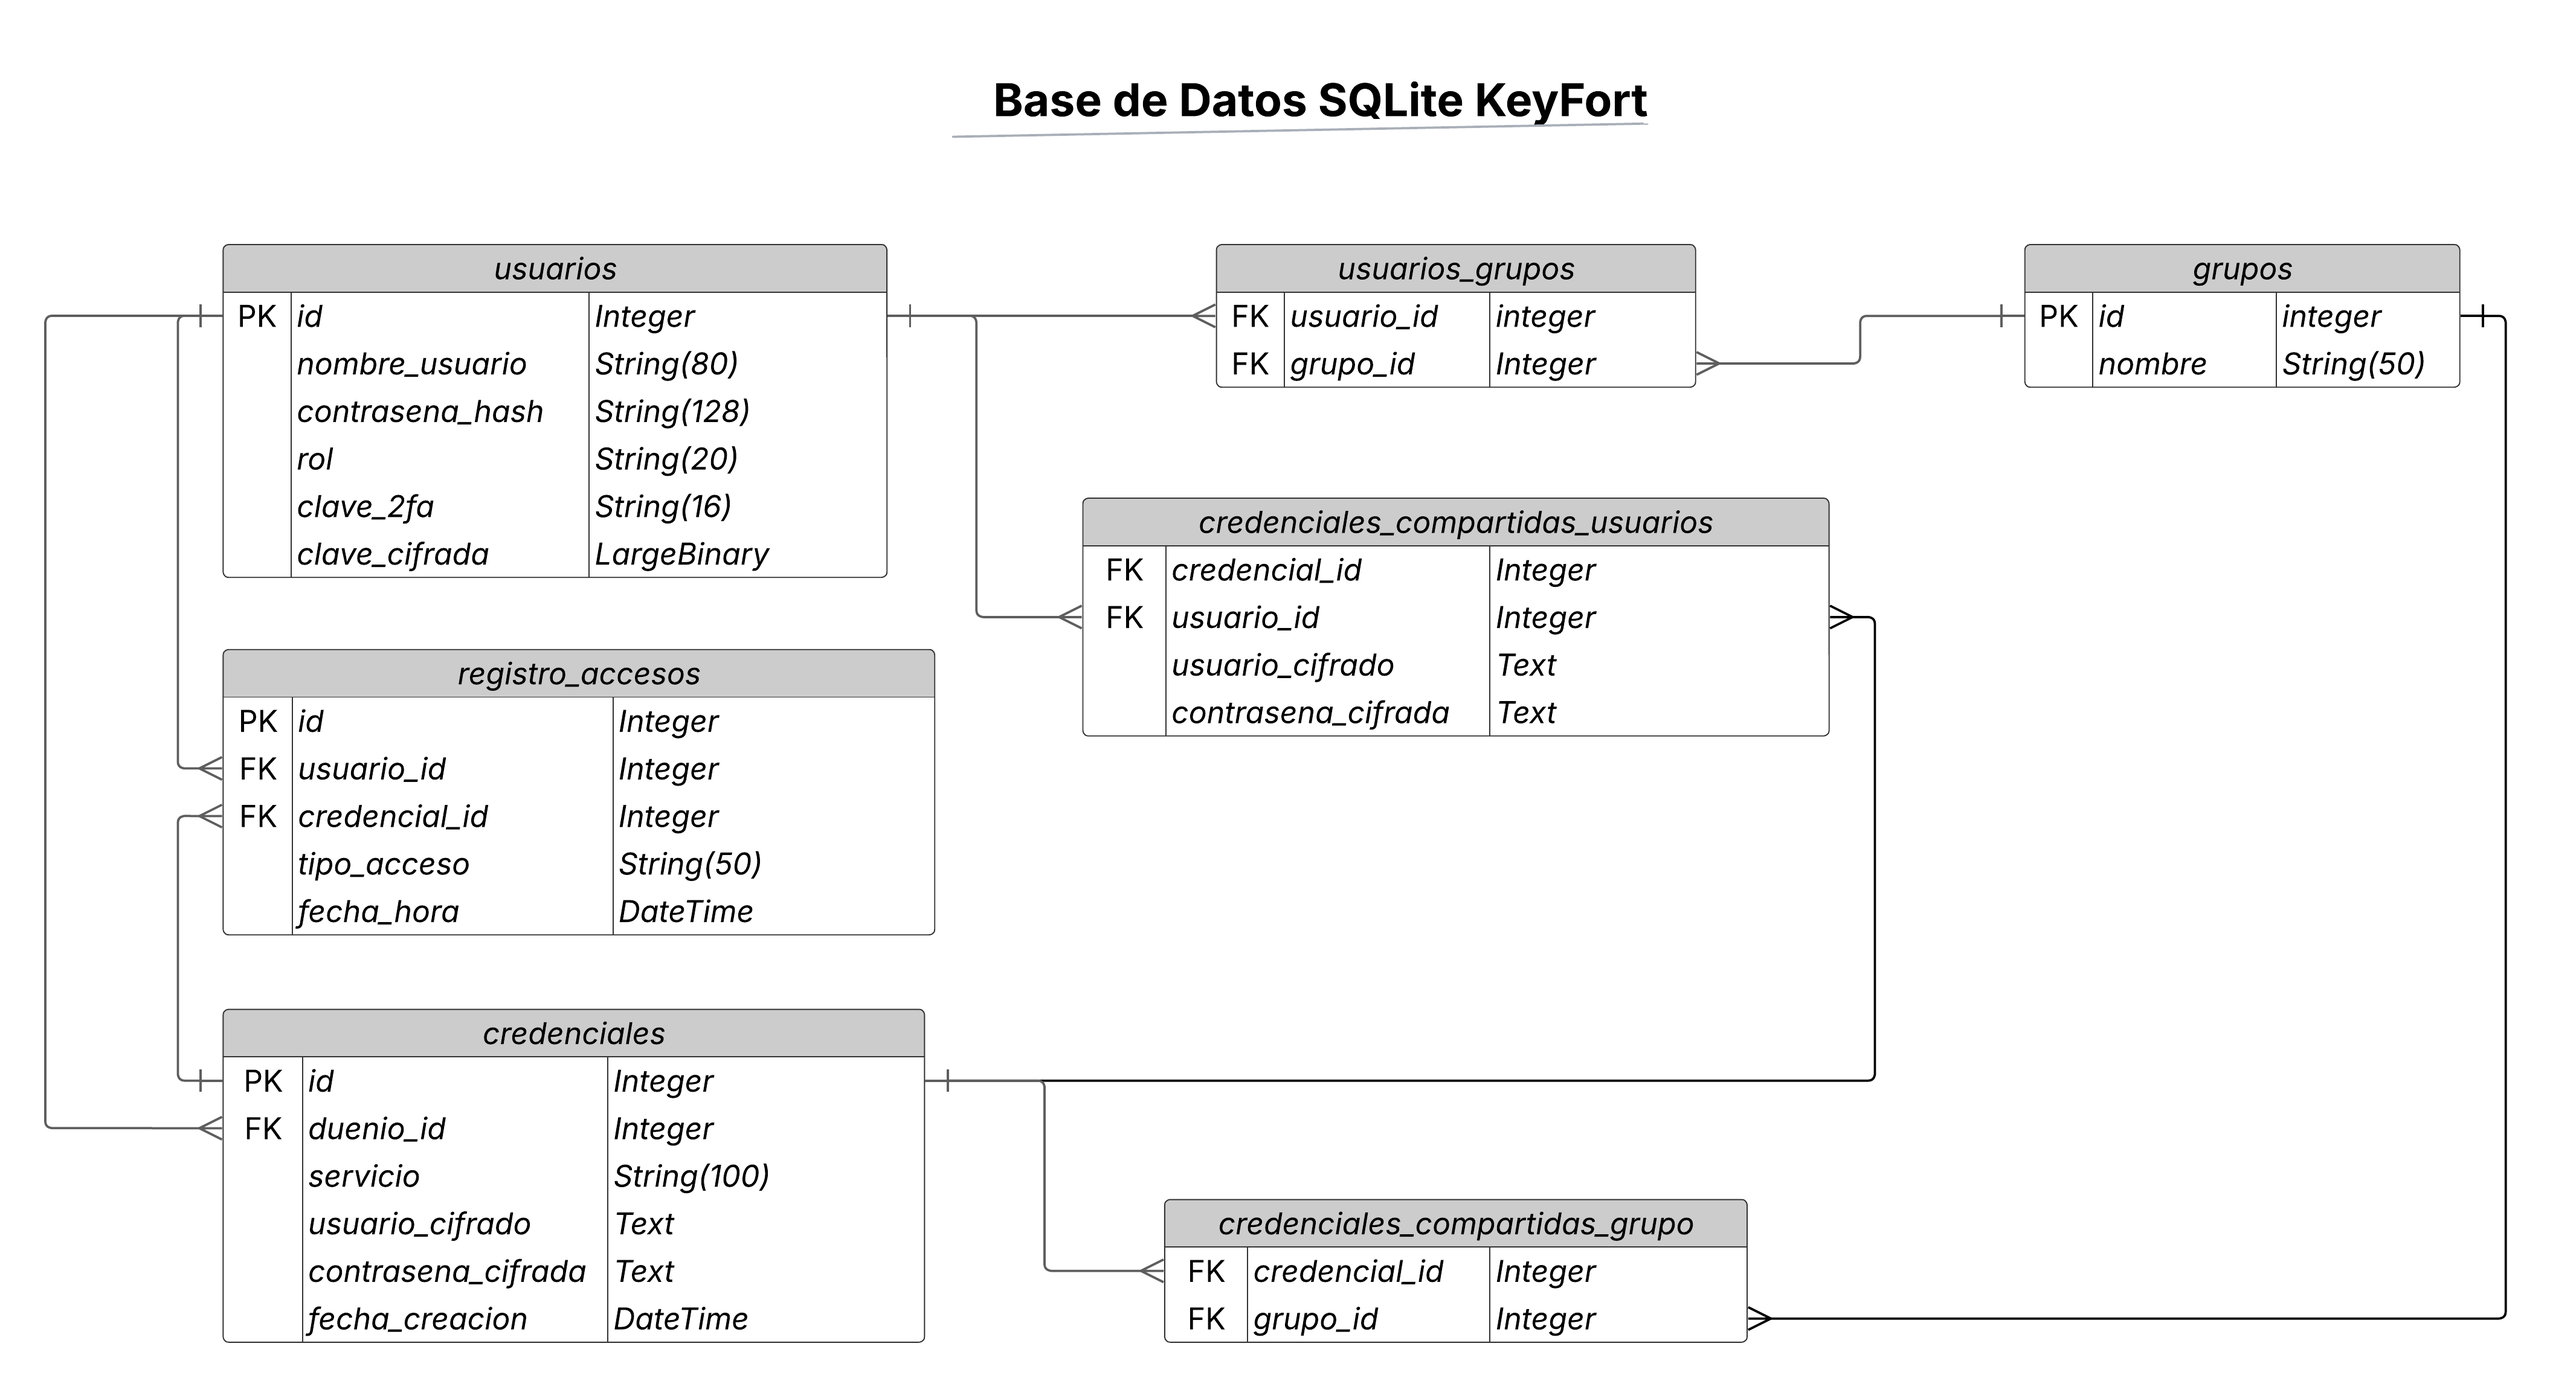
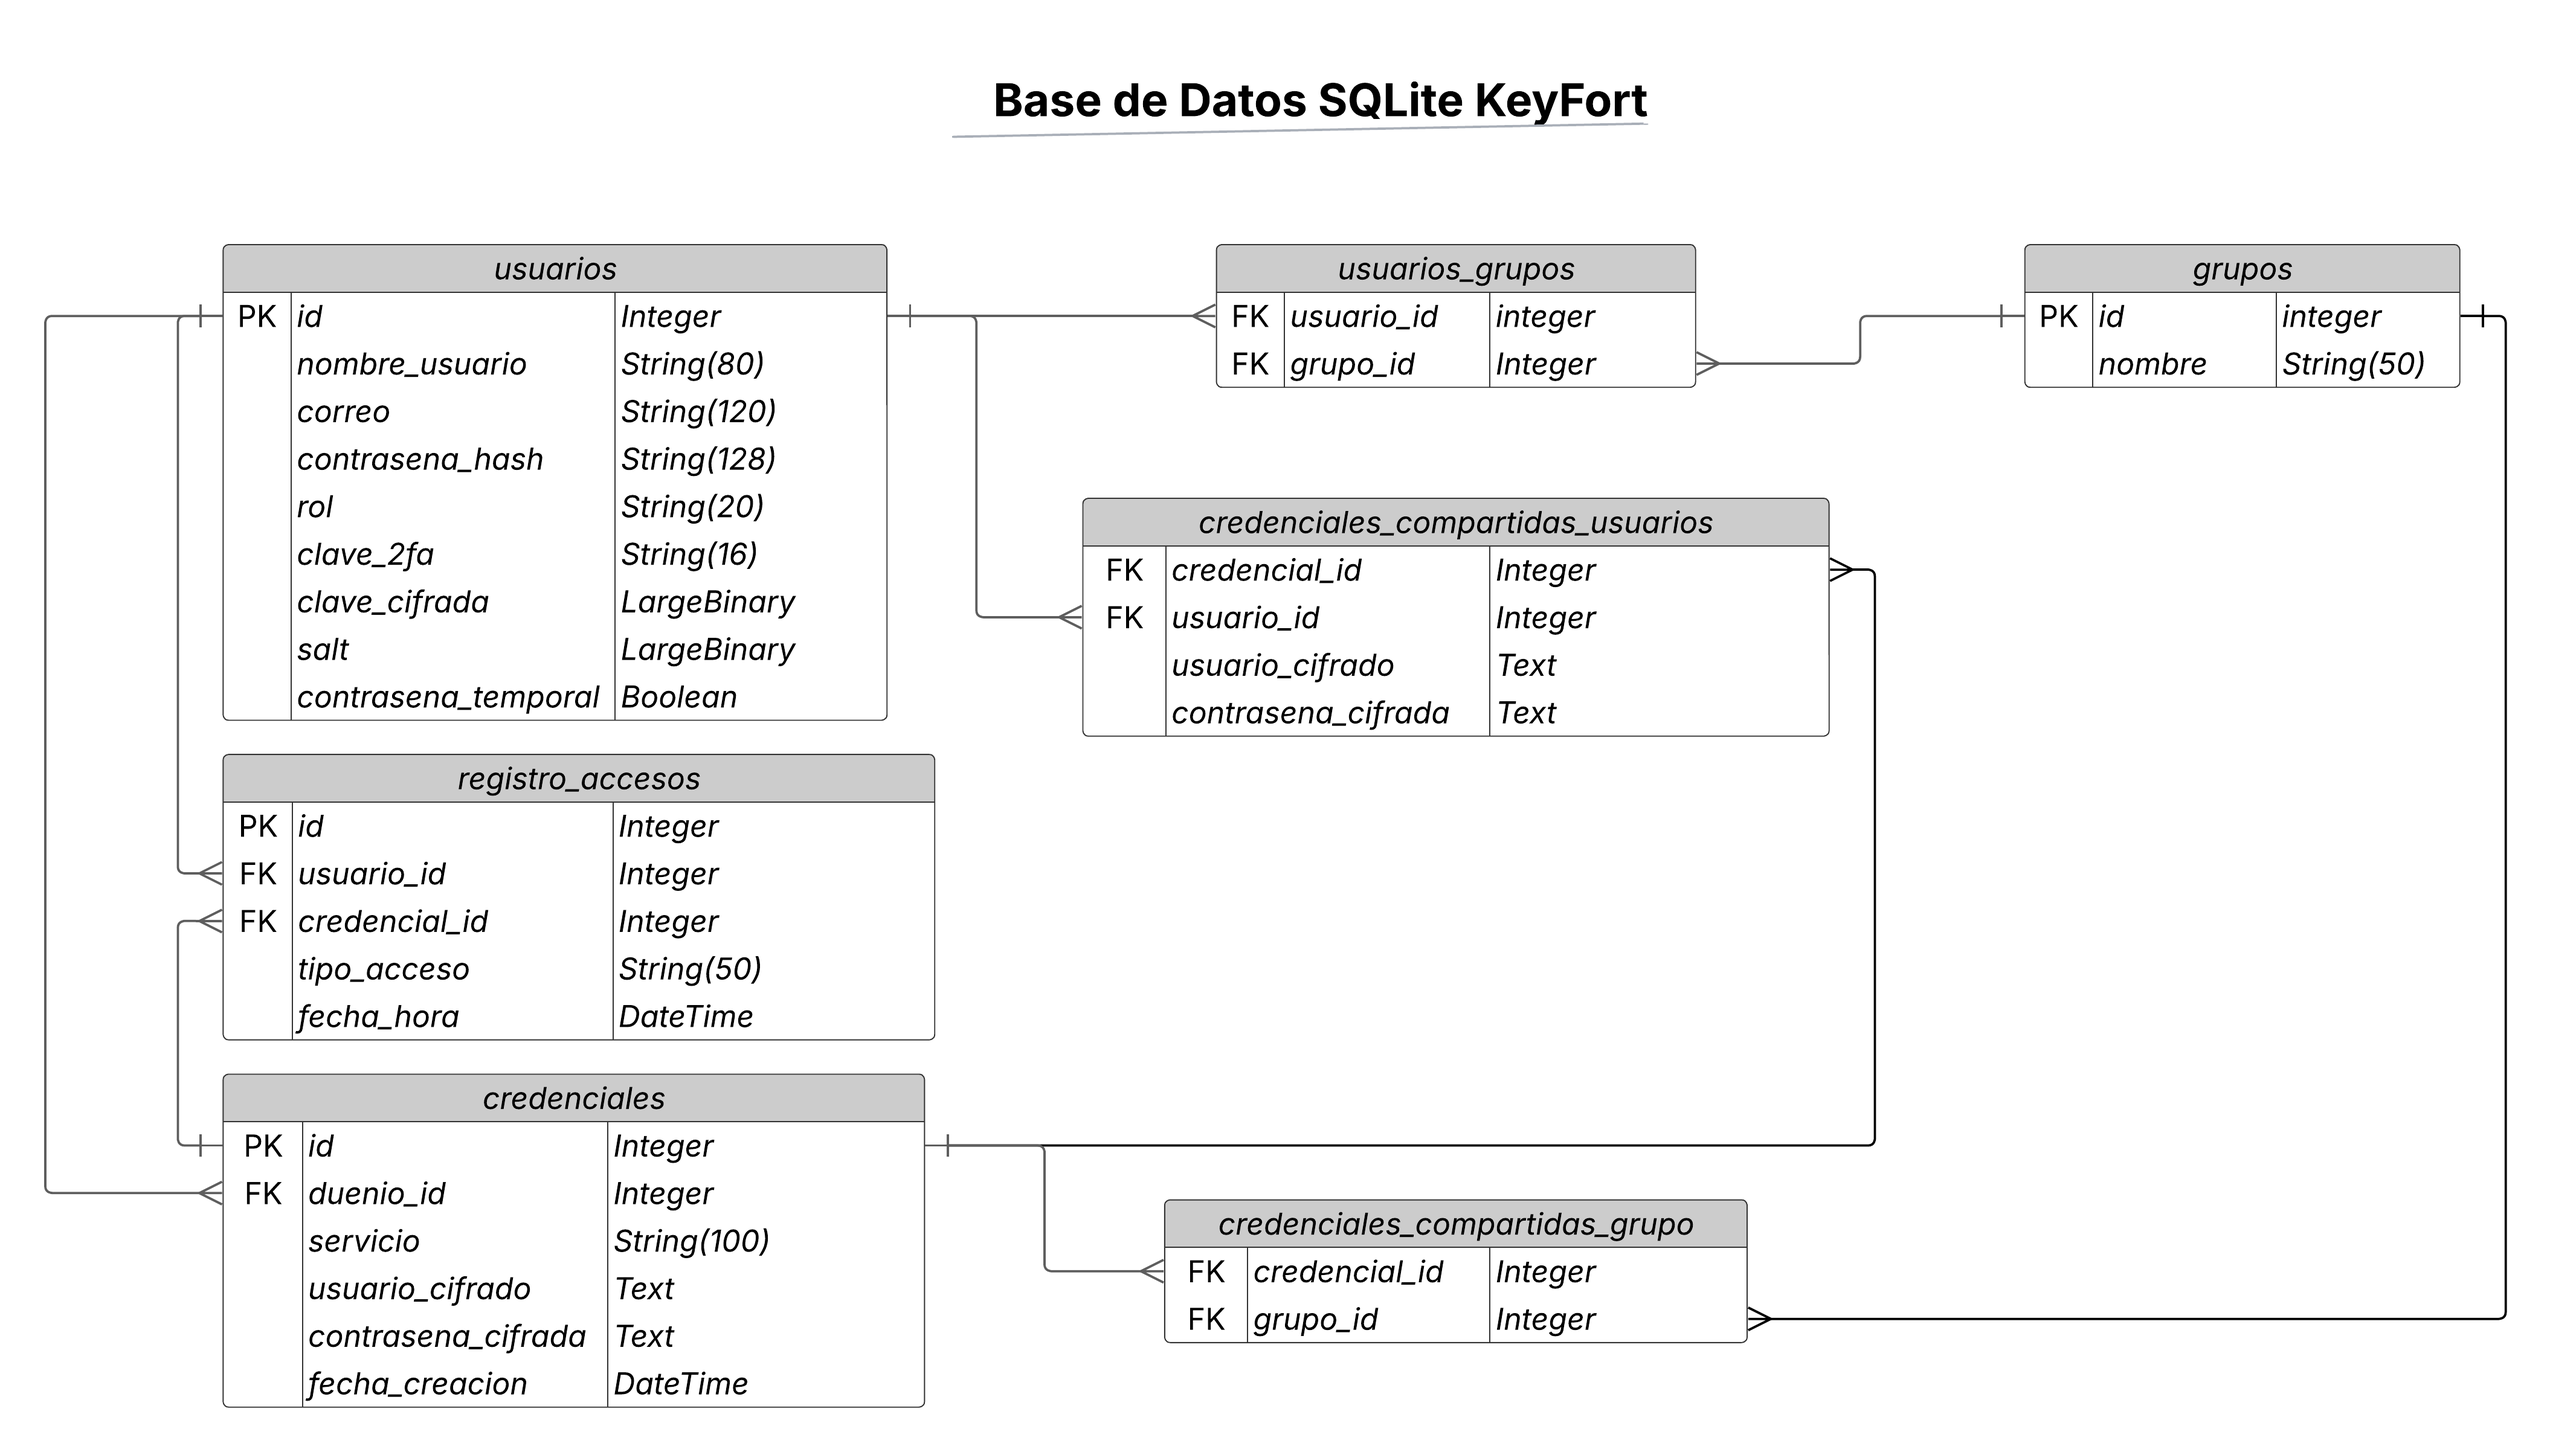
Creación de rutas: creación de usuarios, login, configuración de autenticación en dos factores y verificación de claves TOPT. Ademas se crearon módulos dentro de la carpeta 'utils/' los cuales resuelven todas las tareas necesarias para realizar correctamente las acciones de las rutas, ya sea crear l

diff --git a/backend/routes.py b/backend/routes.py
@@ -1,0 +1,127 @@
+from flask import request, jsonify
+from base.db import db
+from base.models import Usuario, Credencial, Grupo, RegistroAcceso, CredencialCompartidaUsuario
+from utils.contrasena import generar_contrasena, hashear_contrasena, checkear_contrasena
+from utils.cifrado_aes import generar_clave_usuario_cifrada
+from utils.twofa import generar_clave_2fa, generar_uri_2fa, verificar_codigo_2fa
+from utils.correos import enviar_correo_contrasena
+from utils.cambiar_contrasena import cambiar_contrasena
+from utils.auth_token import generar_token, verificar_token
+
+def registrar_rutas(app):
+    @app.route('/crear_usuario', methods=['POST'])
+    def crear_usuario():
+        data = request.get_json()
+
+        if not all(k in data for k in ('nombre_usuario', 'rol', 'correo')):
+            return jsonify({'error': 'Faltan campos requeridos'}), 400
+        
+        if Usuario.query.filter_by(correo=data['correo']).first():
+            return jsonify({'error': 'Este correo ya está registrado'}), 409
+
+        contrasena_temp = generar_contrasena()
+
+        clave_cifrada, salt = generar_clave_usuario_cifrada(contrasena_temp)  
+
+        nuevo = Usuario(
+            nombre_usuario=data['nombre_usuario'],
+            correo=data['correo'],  
+            contrasena_hash=hashear_contrasena(contrasena_temp),
+            rol=data['rol'],
+            clave_cifrada=clave_cifrada,
+            salt=salt,
+        )
+
+        db.session.add(nuevo)
+        db.session.commit()
+
+        enviar_correo_contrasena(data['correo'], data['nombre_usuario'], contrasena_temp)
+
+        return jsonify({
+            'mensaje': 'Usuario creado exitosamente',
+        }), 201
+
+    @app.route('/login', methods=['POST'])
+    def login():
+        data = request.get_json()
+
+        usuario = Usuario.query.filter_by(nombre_usuario=data.get('nombre_usuario')).first()
+        if not usuario:
+            return jsonify({'error': 'Usuario no encontrado'}), 404
+
+        if not checkear_contrasena(usuario.contrasena_hash, data.get('contrasena')):
+            return jsonify({'error': 'Contraseña incorrecta'}), 401
+
+        return jsonify({
+            'mensaje': 'Login exitoso',
+            'usuario': usuario.id,
+            'contrasena_temporal': usuario.contrasena_temporal
+        }), 200
+
+    @app.route('/primer_login', methods=['POST'])
+    def primer_login():
+        data = request.get_json()
+        usuario = Usuario.query.filter_by(id=data.get('usuario_id')).first()
+
+        if not usuario:
+            return jsonify({'error': 'Usuario no encontrado'}), 404
+
+        if data.get('mantener_contrasena'):
+            usuario.contrasena_temporal = False
+            db.session.commit()
+            return jsonify({'mensaje': 'Contraseña temporal mantenida'}), 200
+
+        nueva_contrasena = data.get('nueva_contrasena')
+        if not nueva_contrasena:
+            return jsonify({'error': 'Se requiere nueva contraseña'}), 400
+
+        cambiar_contrasena(usuario, nueva_contrasena, temporal=False)
+        db.session.commit()
+
+        return jsonify({'mensaje': 'Contraseña cambiada exitosamente'}), 200
+
+    @app.route('/configurar_2fa', methods=['POST'])
+    def configurar_2fa():
+        data = request.get_json()
+        usuario = Usuario.query.filter_by(id=data.get('usuario_id')).first()
+
+        if not usuario:
+            return jsonify({'error': 'Usuario no encontrado'}), 404
+
+        if usuario.clave_2fa:
+            return jsonify({'error': '2FA ya configurado para este usuario'}), 400
+
+        clave_2fa = generar_clave_2fa()
+        uri = generar_uri_2fa(clave_2fa, usuario.nombre_usuario)
+
+        usuario.clave_2fa = clave_2fa
+        db.session.commit()
+
+        return jsonify({
+            'mensaje': 'Codigo uri enviado',
+            'uri': uri
+        }), 200
+
+
+    @app.route('/verificar_2fa', methods=['POST'])
+    def verificar_2fa():
+        data = request.get_json()
+        usuario = Usuario.query.filter_by(id=data.get('usuario_id')).first()
+
+        if not usuario or not usuario.clave_2fa:
+            return jsonify({'error': 'Usuario o 2FA no configurado'}), 404
+
+        codigo_ingresado = data.get('codigo')
+
+        totp = verificar_codigo_2fa(usuario.clave_2fa)
+        if totp.verify(codigo_ingresado):
+            db.session.commit()
+
+            token = generar_token(usuario.id)
+
+            return jsonify({
+                'mensaje': '2FA verificado correctamente',
+                'token': token
+            }), 200
+        else:
+            return jsonify({'error': 'Código incorrecto'}), 401

diff --git a/backend/base/models.py b/backend/base/models.py
@@ -1,7 +1,5 @@
-from flask_sqlalchemy import SQLAlchemy
+from base.db import db
 from datetime import datetime
-
-db = SQLAlchemy()
 
 usuarios_grupos = db.Table('usuarios_grupos',
     db.Column('usuario_id', db.Integer, db.ForeignKey('usuarios.id'), primary_key=True),
@@ -18,14 +16,18 @@ class Usuario(db.Model):
 
     id = db.Column(db.Integer, primary_key=True)
     nombre_usuario = db.Column(db.String(80), unique=True, nullable=False)
+    correo = db.Column(db.String(120), unique=True, nullable=False)
     contrasena_hash = db.Column(db.String(128), nullable=False)
     rol = db.Column(db.String(20), nullable=False) 
-    clave_2fa = db.Column(db.String(16), nullable=True)
-    clave_cifrada = db.Column(db.LargeBinary, nullable=False)  
+    clave_2fa = db.Column(db.String(16), nullable=True, default=None)
+    clave_cifrada = db.Column(db.LargeBinary, nullable=False)
+    salt = db.Column(db.LargeBinary, nullable=False)
+    contrasena_temporal = db.Column(db.Boolean, default=True)  
 
     grupos = db.relationship('Grupo', secondary=usuarios_grupos, back_populates='usuarios')
     credenciales_propias = db.relationship('Credencial', backref='duenio', lazy=True)
     accesos = db.relationship('RegistroAcceso', backref='usuario', lazy=True)
+
 
 class Grupo(db.Model):
     __tablename__ = 'grupos'

diff --git a/backend/utils/auth_token.py b/backend/utils/auth_token.py
@@ -1,0 +1,38 @@
+import jwt
+from datetime import datetime, timedelta
+from flask import request, jsonify, g, current_app
+from functools import wraps
+
+def generar_token(usuario_id, duracion_horas=1):
+    expiracion = datetime.utcnow() + timedelta(hours=duracion_horas)
+    payload = {
+        'usuario_id': usuario_id,
+        'exp': expiracion
+    }
+    token = jwt.encode(payload, current_app.config['SECRET_KEY'], algorithm='HS256')
+    return token
+
+
+def verificar_token(func):
+    @wraps(func)
+    def wrapper(*args, **kwargs):
+        token = None
+        if 'Authorization' in request.headers:
+            partes = request.headers['Authorization'].split()
+            if len(partes) == 2 and partes[0] == 'Bearer':
+                token = partes[1]
+
+        if not token:
+            return jsonify({'error': 'Token faltante'}), 401
+
+        try:
+            payload = jwt.decode(token, current_app.config['SECRET_KEY'], algorithms=['HS256'])
+            g.user = payload 
+        except jwt.ExpiredSignatureError:
+            return jsonify({'error': 'Token expirado'}), 401
+        except jwt.InvalidTokenError:
+            return jsonify({'error': 'Token inválido'}), 401
+
+        return func(*args, **kwargs)
+
+    return wrapper

diff --git a/backend/utils/cifrado_aes.py b/backend/utils/cifrado_aes.py
@@ -1,0 +1,25 @@
+from cryptography.hazmat.primitives.kdf.pbkdf2 import PBKDF2HMAC
+from cryptography.hazmat.primitives import hashes
+from cryptography.hazmat.backends import default_backend
+from cryptography.fernet import Fernet
+import base64
+import os
+
+def derivar_clave_desde_contrasena(contrasena: str, salt: bytes, iteraciones=100_000) -> bytes:
+    kdf = PBKDF2HMAC(
+        algorithm=hashes.SHA256(),
+        length=32,
+        salt=salt,
+        iterations=iteraciones,
+        backend=default_backend()
+    )
+    return base64.urlsafe_b64encode(kdf.derive(contrasena.encode()))
+
+def generar_clave_usuario_cifrada(contrasena: str):
+    clave_aes = Fernet.generate_key()
+    salt = os.urandom(16)
+    clave_derivada = derivar_clave_desde_contrasena(contrasena, salt)
+    fernet = Fernet(clave_derivada)
+    clave_cifrada = fernet.encrypt(clave_aes)
+    return clave_cifrada, salt
+

diff --git a/backend/utils/correos.py b/backend/utils/correos.py
@@ -1,0 +1,14 @@
+import smtplib
+from email.message import EmailMessage
+
+def enviar_correo_contrasena(correo_destino, nombre_usuario, contrasena_temp):
+    msg = EmailMessage()
+    msg['Subject'] = 'Tu contraseña temporal en KeyFort'
+    msg['From'] = 'noreply@tuapp.com'
+    msg['To'] = correo_destino
+    msg.set_content(f'Hola {nombre_usuario},\n\nTu contraseña temporal es: {contrasena_temp}\nPor favor cambia tu contraseña en el primer inicio de sesión.\n\nSaludos,\nKeyFort Team')
+
+    with smtplib.SMTP('smtp.tu-servidor.com', 587) as smtp:
+        smtp.starttls()
+        smtp.login('usuario_smtp', 'password_smtp')
+        smtp.send_message(msg)

diff --git a/backend/app.py b/backend/app.py
@@ -1,0 +1,24 @@
+from flask import Flask
+from flask_sqlalchemy import SQLAlchemy
+from dotenv import load_dotenv
+import os
+from base.db import db  
+from routes import registrar_rutas
+
+load_dotenv()
+
+BASE_DIR = os.path.abspath(os.path.dirname(__file__))
+
+app = Flask(__name__)
+app.config['SQLALCHEMY_DATABASE_URI'] = f"sqlite:///{os.path.join(BASE_DIR, 'KeyFort.db')}"
+app.config['SQLALCHEMY_TRACK_MODIFICATIONS'] = False
+app.config['SECRET_KEY'] = os.getenv('SECRET_KEY')
+
+db.init_app(app)
+
+registrar_rutas(app)  
+
+if __name__ == '__main__':
+    with app.app_context():
+        db.create_all()
+    app.run(debug=True)

diff --git a/backend/utils/cambiar_contrasena.py b/backend/utils/cambiar_contrasena.py
@@ -1,0 +1,9 @@
+from werkzeug.security import generate_password_hash
+from utils.cifrado_aes import generar_clave_usuario_cifrada
+
+def cambiar_contrasena(usuario, nueva_contrasena, temporal=False):
+    clave_cifrada, salt = generar_clave_usuario_cifrada(nueva_contrasena)
+    usuario.contrasena_hash = generate_password_hash(nueva_contrasena)
+    usuario.clave_cifrada = clave_cifrada
+    usuario.salt = salt
+    usuario.contrasena_temporal = temporal

diff --git a/backend/utils/contrasena.py b/backend/utils/contrasena.py
@@ -1,0 +1,11 @@
+import os
+from werkzeug.security import generate_password_hash, check_password_hash
+
+def generar_contrasena():
+    return os.urandom(8).hex()
+
+def hashear_contrasena(contrasena):
+    return generate_password_hash(contrasena)
+
+def checkear_contrasena(contrasena, contrasena_ingresada):
+    return check_password_hash(contrasena, contrasena_ingresada)

diff --git a/backend/utils/twofa.py b/backend/utils/twofa.py
@@ -1,0 +1,11 @@
+import pyotp
+
+def generar_clave_2fa():
+    return pyotp.random_base32()
+
+def generar_uri_2fa(nombre_usuario: str, clave_2fa: str, nombre_sistema="KeyFort"):
+    totp = pyotp.TOTP(clave_2fa)
+    return totp.provisioning_uri(name=nombre_usuario, issuer_name=nombre_sistema)
+
+def verificar_codigo_2fa(codigo):
+     return pyotp.TOTP(codigo)

diff --git a/backend/base/db.py b/backend/base/db.py
@@ -1,0 +1,3 @@
+from flask_sqlalchemy import SQLAlchemy
+
+db = SQLAlchemy()
